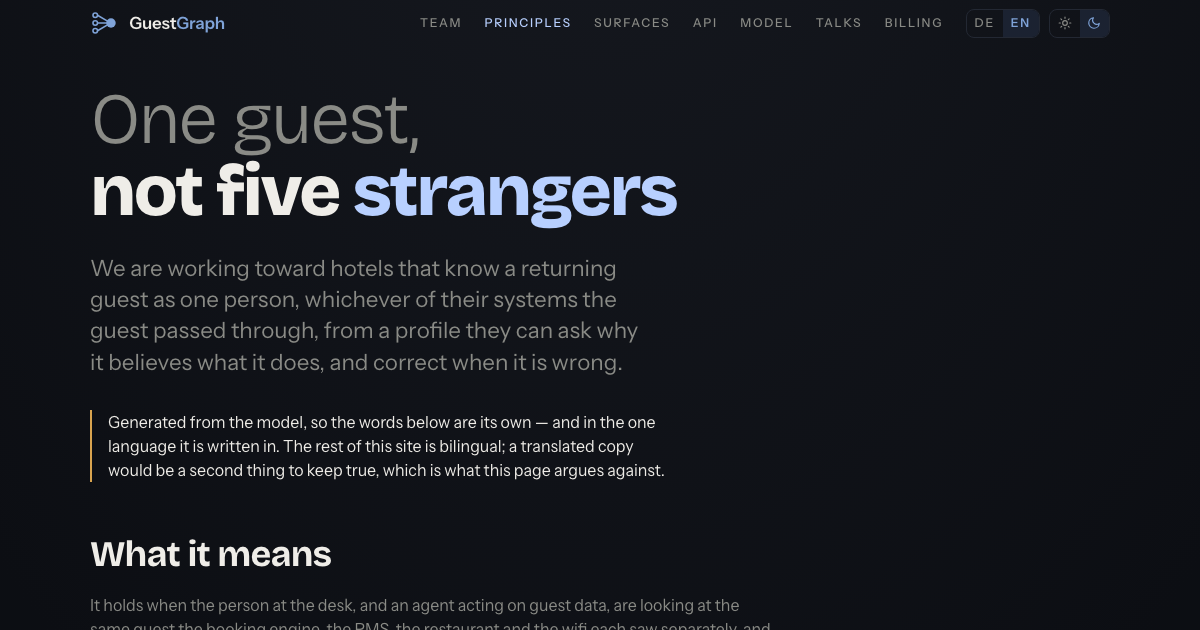
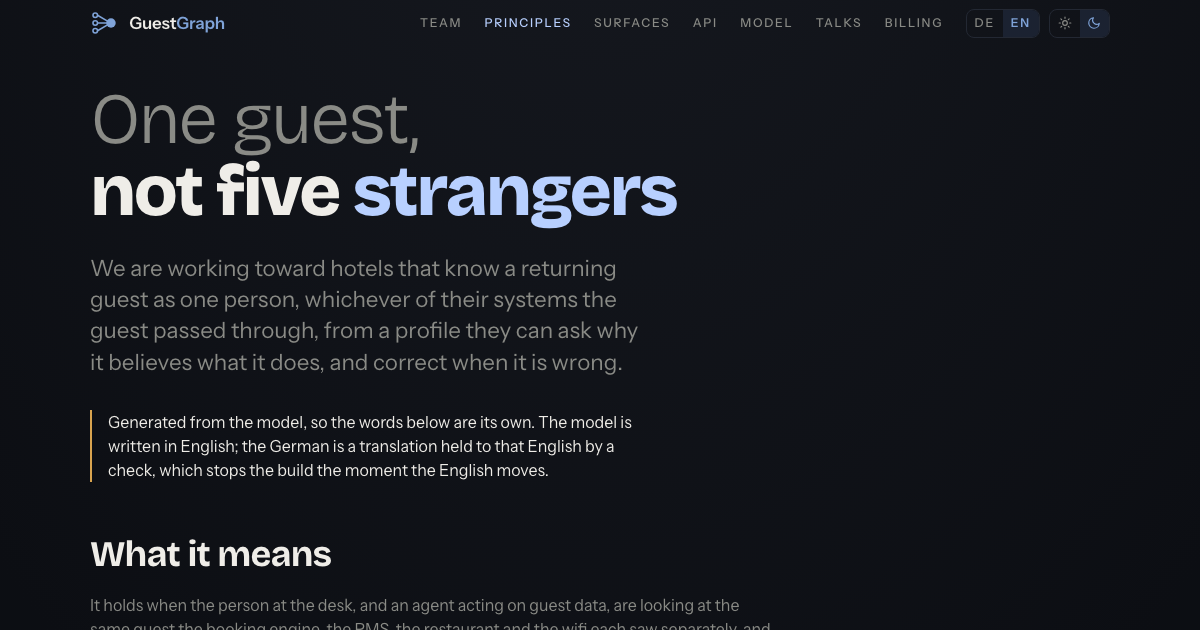
The principles page reads in German, held to the model's English
Every other page on this site keeps the model's words in the one language the model is
written in, but the model's own vision and values are the site's most public claims, and a
reader in Zürich or Bern was reading them only in English. build/pages.mjs now loads
build/principles.de.json and passes it to writePrinciples, so /principles/ shows the German
translation the owner already reviewed, held to the exact English by a check that refuses the
build the moment the two disagree.

AGENTS.md's note on one-language pages moves /principles/ out of that list across all three
sites: it is the one page generated from a pinned model that carries a translation, because a
value's German name is what a visitor reads once the language switch is pressed, and the note
on the page now says so.

Verified: the /principles/ translates spec was changed first and BASE=http://localhost:8014
npm run verify failed with German page is missing "übersetzt aus dem Englischen"; npm run
pages then regenerated /principles/ and the same run passed on all 11 pages. npm run
pages:check, model:check, api:check, design:check, og:check, test:og, sitemap,
conventions-check, conventions-sync check and npx design german stale origin/main HEAD all
pass.

Changed region(s): [[0.0925, 0.6635, 0.555, 0.754]]

diff --git a/principles/index.html b/principles/index.html
@@ -224,60 +224,60 @@
   <div class="shell">
     <!-- principles:start -->
     <div class="title">
-      <h1><span class="r70">One guest,</span><span class="rcl">not five <em>strangers</em></span></h1>
-      <p class="tagline">We are working toward hotels that know a returning guest as one person, whichever of their systems the guest passed through, from a profile they can ask why it believes what it does, and correct when it is wrong.</p>
-      <p class="note" data-de="Aus dem Modell erzeugt: Die Worte unten sind seine eigenen – und in der einen Sprache, in der es geschrieben ist. Der Rest dieser Website ist zweisprachig; eine übersetzte Kopie wäre eine zweite Fassung, die ebenfalls stimmen müsste – und genau dagegen argumentiert diese Seite.">Generated from the model, so the words below are its own — and in the one language it is written in. The rest of this site is bilingual; a translated copy would be a second thing to keep true, which is what this page argues against.</p>
+      <h1 data-de="<span class='r70'>Ein Gast,</span><span class='rcl'>nicht fünf <em>Fremde</em></span>"><span class="r70">One guest,</span><span class="rcl">not five <em>strangers</em></span></h1>
+      <p class="tagline" data-de="Wir arbeiten darauf hin, dass Hotels einen wiederkehrenden Gast als eine Person kennen, gleich in welchem ihrer Systeme er erfasst wurde – mit einem Profil, das auf Nachfrage sagt, warum es annimmt, was es annimmt, und das sich korrigieren lässt, wenn es falsch liegt.">We are working toward hotels that know a returning guest as one person, whichever of their systems the guest passed through, from a profile they can ask why it believes what it does, and correct when it is wrong.</p>
+      <p class="note" data-de="Aus dem Modell erzeugt: Die Worte unten sind seine eigenen, übersetzt aus dem Englischen, in dem es geschrieben ist. Eine Prüfung bindet die Übersetzung an den englischen Text: Ändert sich das Englische, stoppt die Prüfung den Build.">Generated from the model, so the words below are its own. The model is written in English; the German is a translation held to that English by a check, which stops the build the moment the English moves.</p>
     </div>
 
     <section>
-      <h2>What it means</h2>
-      <p class="lede">It holds when the person at the desk, and an agent acting on guest data, are looking at the same guest the booking engine, the PMS, the restaurant and the wifi each saw separately, and when either of them can ask why two records are one person and get the whole chain of decisions back. It holds only while a wrong merge is rarer than a missed one, because a wrong merge shows one guest another's stays and invoices, and that is a data protection incident rather than a flaw.</p>
-      <p class="lede">It does not ask a hotel to replace the systems it runs or to clean their data first: the records stay as each system sent them, and the profile is derived from them. It is also not a marketing profile built by guessing. A match nobody can justify is left unmade and handed to a person, and a hotel that ends up with fewer merged guests and none of them wrong is closer to it than one with more.</p>
+      <h2 data-de="Was das bedeutet">What it means</h2>
+      <p class="lede" data-de="Erreicht ist das, wenn die Person an der Rezeption und ein KI-Agent, der auf Grundlage von Gastdaten handelt, denselben Gast vor sich haben – den Gast, den Buchungsmaschine, PMS, Restaurant und WLAN je für sich gesehen haben. Und wenn beide fragen können, warum zwei Datensätze eine Person sind, und als Antwort die ganze Kette der Entscheide erhalten. Erreicht bleibt es nur, solange eine falsche Zusammenführung seltener ist als eine verpasste. Denn eine falsche Zusammenführung zeigt einem Gast die Aufenthalte und Rechnungen eines anderen, und das ist ein Datenschutzvorfall, kein Schönheitsfehler.">It holds when the person at the desk, and an agent acting on guest data, are looking at the same guest the booking engine, the PMS, the restaurant and the wifi each saw separately, and when either of them can ask why two records are one person and get the whole chain of decisions back. It holds only while a wrong merge is rarer than a missed one, because a wrong merge shows one guest another's stays and invoices, and that is a data protection incident rather than a flaw.</p>
+      <p class="lede" data-de="Das verlangt von keinem Hotel, seine Systeme zu ersetzen oder deren Daten zuerst zu bereinigen: Die Datensätze bleiben, wie jedes System sie gesendet hat, und das Profil wird aus ihnen abgeleitet. Gemeint ist auch kein Marketingprofil, das auf Vermutungen beruht. Ein Treffer, den niemand begründen kann, wird nicht zusammengeführt, sondern einem Menschen vorgelegt. Ein Hotel, das am Ende weniger zusammengeführte Gäste hat und keinen davon falsch, ist dem Ziel näher als eines mit mehr.">It does not ask a hotel to replace the systems it runs or to clean their data first: the records stay as each system sent them, and the profile is derived from them. It is also not a marketing profile built by guessing. A match nobody can justify is left unmade and handed to a person, and a hotel that ends up with fewer merged guests and none of them wrong is closer to it than one with more.</p>
     </section>
 
     <section>
       <h2 data-de="Werte">Values</h2>
       <article class="value" id="a-match-is-not-trusted-until-it-is-justified">
-        <h3>A match is not trusted until it is justified</h3>
-        <p class="tagline">Finding a match is the easy part; knowing when not to trust one is the work, and a match that cannot justify itself is escalated rather than made.</p>
-        <p>Each layer of matching decides only what it is entitled to and hands the rest upward: a shared strong identifier merges outright, a probabilistic score merges only above a threshold the tenant chose, and everything else queues for a person, whose decision sticks. Automatic probabilistic merging ships switched off, so out of the box a score suggests and a person decides, and lowering the threshold is an explicit, reversible act of trust. An agent gets no exemption a score would not get: it passes through the same thresholds, the same review queue and the same undo.</p>
-        <p>We never switch on a merge that no person asked to trust.</p>
+        <h3 data-de="Einem Treffer wird erst vertraut, wenn er begründet ist">A match is not trusted until it is justified</h3>
+        <p class="tagline" data-de="Einen Treffer zu finden, ist einfach. Schwierig ist zu wissen, wann man ihm nicht trauen darf – und ein Treffer, der sich nicht begründen lässt, wird einem Menschen vorgelegt, statt vollzogen zu werden.">Finding a match is the easy part; knowing when not to trust one is the work, and a match that cannot justify itself is escalated rather than made.</p>
+        <p data-de="Jede Stufe des Abgleichs entscheidet nur, was ihr zusteht, und reicht den Rest nach oben weiter: Ein gemeinsamer starker Identifikator führt direkt zusammen, ein Wahrscheinlichkeits-Score nur oberhalb eines Schwellenwerts, den der Mandant gewählt hat, und alles Übrige wartet auf einen Menschen, dessen Entscheid Bestand hat. Die automatische Zusammenführung nach Wahrscheinlichkeit wird ausgeschaltet ausgeliefert. Ab Werk schlägt also ein Score vor, und ein Mensch entscheidet; den Schwellenwert zu senken, ist ein ausdrücklicher und umkehrbarer Vertrauensbeweis. Ein KI-Agent bekommt keine Ausnahme, die ein Score nicht auch bekäme: Er durchläuft dieselben Schwellenwerte und dieselbe Prüfwarteschlange, und was er zusammenführt, lässt sich genauso zurücknehmen.">Each layer of matching decides only what it is entitled to and hands the rest upward: a shared strong identifier merges outright, a probabilistic score merges only above a threshold the tenant chose, and everything else queues for a person, whose decision sticks. Automatic probabilistic merging ships switched off, so out of the box a score suggests and a person decides, and lowering the threshold is an explicit, reversible act of trust. An agent gets no exemption a score would not get: it passes through the same thresholds, the same review queue and the same undo.</p>
+        <p data-de="Wir schalten nie eine Zusammenführung ein, ohne dass ein Mensch ihr ausdrücklich vertraut.">We never switch on a merge that no person asked to trust.</p>
       </article>
       <article class="value" id="every-merge-can-be-explained-and-undone">
-        <h3>Every merge can be explained and undone</h3>
-        <p class="tagline">Whichever layer decided that two records are one person, the decision can be asked why and can be taken back, and the taking back holds.</p>
-        <p>Every merge records what it joined, the matcher that decided it, how confident it was, on what evidence, when and whether the system, a person or a named agent made it, and asking why two records are one guest returns that whole chain. An unmerge splits them again and writes a do-not-merge rule, so new evidence cannot quietly put them back together. This was built before any uncertain decision was possible, because a probabilistic merge is only safe to allow once it can be explained and reversed.</p>
-        <p>We never ship a way of merging guests whose decisions cannot be read back and undone.</p>
+        <h3 data-de="Jede Zusammenführung lässt sich erklären und zurücknehmen">Every merge can be explained and undone</h3>
+        <p class="tagline" data-de="Gleich welche Stufe entschieden hat, dass zwei Datensätze eine Person sind: Der Entscheid lässt sich nach seinem Grund fragen und zurücknehmen, und die Rücknahme hat Bestand.">Whichever layer decided that two records are one person, the decision can be asked why and can be taken back, and the taking back holds.</p>
+        <p data-de="Jede Zusammenführung hält fest, was sie verbunden hat, welcher Matcher darüber entschieden hat, wie sicher er war, auf welche Hinweise er sich stützte, wann das war und ob das System, ein Mensch oder ein namentlich genannter KI-Agent sie vorgenommen hat. Wer fragt, warum zwei Datensätze ein Gast sind, bekommt diese ganze Kette zurück. Eine Trennung teilt die Datensätze wieder auf und schreibt eine Regel, dass sie nicht zusammengeführt werden dürfen, sodass neue Hinweise sie nicht stillschweigend wieder zusammenfügen können. Gebaut wurde das, bevor überhaupt ein Entscheid ohne Gewissheit möglich war, denn eine Zusammenführung nach Wahrscheinlichkeit lässt sich erst gefahrlos zulassen, wenn sie sich erklären und rückgängig machen lässt.">Every merge records what it joined, the matcher that decided it, how confident it was, on what evidence, when and whether the system, a person or a named agent made it, and asking why two records are one guest returns that whole chain. An unmerge splits them again and writes a do-not-merge rule, so new evidence cannot quietly put them back together. This was built before any uncertain decision was possible, because a probabilistic merge is only safe to allow once it can be explained and reversed.</p>
+        <p data-de="Wir liefern nie ein Verfahren zur Zusammenführung von Gästen aus, dessen Entscheide sich nicht nachlesen und zurücknehmen lassen.">We never ship a way of merging guests whose decisions cannot be read back and undone.</p>
       </article>
       <article class="value" id="everything-the-engine-does-is-on-its-api">
-        <h3>Everything the engine does is on its API</h3>
-        <p class="tagline">Every capability of the engine is reachable through its versioned REST API, and every refusal carries a type a program can act on and a person can look up.</p>
-        <p>Registering a source system, submitting a record, reading a guest, asking why, undoing a merge, deciding a review and setting the matching thresholds are all operations of the API, and a connector reaches the engine through that API like any other client. Every refusal is a problem detail whose type leads to a page saying what it means and what to do next. The hosted service will run this same engine, so the API is the product's contract from the first day.</p>
-        <p>We never build an engine capability that can only be reached through a job, an internal call or the database.</p>
+        <h3 data-de="Alles, was die Engine tut, läuft über ihre API">Everything the engine does is on its API</h3>
+        <p class="tagline" data-de="Jede Fähigkeit der Engine ist über ihre versionierte REST-API erreichbar, und jede Ablehnung nennt ihren Typ, nach dem ein Programm handeln und den ein Mensch nachschlagen kann.">Every capability of the engine is reachable through its versioned REST API, and every refusal carries a type a program can act on and a person can look up.</p>
+        <p data-de="Ein Quellsystem registrieren, einen Datensatz übermitteln, einen Gast lesen, nach dem Grund fragen, eine Zusammenführung zurücknehmen, über einen vorgelegten Treffer entscheiden und die Schwellenwerte für den Abgleich setzen: All das sind Operationen der API, und ein Connector erreicht die Engine über diese API wie jeder andere Client. Jede Ablehnung ist ein Problem Detail, dessen Typ auf eine Seite führt, die sagt, was er bedeutet und was als Nächstes zu tun ist. Der gehostete Dienst wird dieselbe Engine betreiben; die API ist also vom ersten Tag an verbindlich.">Registering a source system, submitting a record, reading a guest, asking why, undoing a merge, deciding a review and setting the matching thresholds are all operations of the API, and a connector reaches the engine through that API like any other client. Every refusal is a problem detail whose type leads to a page saying what it means and what to do next. The hosted service will run this same engine, so the API is the product's contract from the first day.</p>
+        <p data-de="Wir bauen nie eine Fähigkeit der Engine, die sich nur über einen Job, einen internen Aufruf oder die Datenbank erreichen lässt.">We never build an engine capability that can only be reached through a job, an internal call or the database.</p>
       </article>
       <article class="value" id="never-drop-what-can-be-parsed">
-        <h3>Never drop what can be parsed</h3>
-        <p class="tagline">Data loss is the cardinal sin: a record that can be read at all is kept, however wrong it looks.</p>
-        <p>Hospitality systems are dirty by nature, so a malformed record that can still be parsed is stored and flagged for review rather than rejected, and only a request that cannot be parsed at all is refused, with a problem detail saying exactly what was wrong. A connector keeps a delivery it could not fetch or submit, with its reason and its next attempt, and retries it rather than dropping it. A flagged record can be repaired and resolved again; a discarded one is a guest interaction lost for good.</p>
-        <p>We never discard a parseable record because it does not look the way we expected.</p>
+        <h3 data-de="Nie verwerfen, was sich parsen lässt">Never drop what can be parsed</h3>
+        <p class="tagline" data-de="Datenverlust ist die Todsünde: Ein Datensatz, der sich überhaupt lesen lässt, wird behalten, wie falsch er auch aussieht.">Data loss is the cardinal sin: a record that can be read at all is kept, however wrong it looks.</p>
+        <p data-de="Die Systeme der Hotellerie sind von Natur aus unsauber. Ein fehlerhafter Datensatz, der sich noch parsen lässt, wird deshalb gespeichert und zur Prüfung markiert statt abgelehnt. Abgelehnt wird nur eine Anfrage, die sich gar nicht parsen lässt, und zwar mit einem Problem Detail, das genau sagt, was falsch war. Eine Lieferung, die ein Connector nicht abrufen oder übermitteln konnte, behält er samt Grund und Zeitpunkt des nächsten Versuchs und versucht es erneut, statt sie zu verwerfen. Ein markierter Datensatz lässt sich reparieren und erneut auflösen; ein verworfener ist eine Interaktion mit einem Gast, die für immer verloren ist.">Hospitality systems are dirty by nature, so a malformed record that can still be parsed is stored and flagged for review rather than rejected, and only a request that cannot be parsed at all is refused, with a problem detail saying exactly what was wrong. A connector keeps a delivery it could not fetch or submit, with its reason and its next attempt, and retries it rather than dropping it. A flagged record can be repaired and resolved again; a discarded one is a guest interaction lost for good.</p>
+        <p data-de="Wir verwerfen nie einen Datensatz, der sich parsen lässt, weil er anders aussieht, als wir erwartet haben.">We never discard a parseable record because it does not look the way we expected.</p>
       </article>
       <article class="value" id="store-what-happened-derive-who-it-was">
-        <h3>Store what happened, derive who it was</h3>
-        <p class="tagline">A source record is kept exactly as its system sent it, and a guest is a conclusion drawn from those records rather than a row anyone edits.</p>
-        <p>A record enters as it arrived, its raw payload beside the fields extracted from it, and application code never changes or deletes it; a correction arrives as a new record. The golden profile is computed from the records by survivorship rules and can be recomputed at any time, which is what makes an explanation, an undo and a replay of resolution possible at all. Lawful erasure under data protection law is the one exception, and it is named as one.</p>
-        <p>We never overwrite a source record to fix what a guest's profile says.</p>
+        <h3 data-de="Speichern, was geschah – ableiten, wer es war">Store what happened, derive who it was</h3>
+        <p class="tagline" data-de="Ein Quelldatensatz wird genau so aufbewahrt, wie sein System ihn gesendet hat, und ein Gast ist ein Schluss, der aus diesen Datensätzen gezogen wird, keine Zeile, die jemand ändert.">A source record is kept exactly as its system sent it, and a guest is a conclusion drawn from those records rather than a row anyone edits.</p>
+        <p data-de="Ein Datensatz wird gespeichert, wie er angekommen ist – die unveränderten Rohdaten neben den Feldern, die daraus extrahiert wurden –, und der Anwendungscode ändert oder löscht ihn nie; eine Korrektur kommt als neuer Datensatz. Das goldene Profil wird mit festen Regeln, welcher Wert gilt, aus den Datensätzen berechnet und lässt sich jederzeit neu berechnen. Erst das macht eine Erklärung, eine Rücknahme und ein erneutes Durchspielen der Auflösung überhaupt möglich. Die rechtmässige Löschung nach Datenschutzrecht ist die einzige Ausnahme, und sie wird als solche benannt.">A record enters as it arrived, its raw payload beside the fields extracted from it, and application code never changes or deletes it; a correction arrives as a new record. The golden profile is computed from the records by survivorship rules and can be recomputed at any time, which is what makes an explanation, an undo and a replay of resolution possible at all. Lawful erasure under data protection law is the one exception, and it is named as one.</p>
+        <p data-de="Wir überschreiben nie einen Quelldatensatz, um zu korrigieren, was im Profil eines Gastes steht.">We never overwrite a source record to fix what a guest's profile says.</p>
       </article>
       <article class="value" id="tenants-never-meet">
-        <h3>Tenants never meet</h3>
-        <p class="tagline">One instance serves many brands, properties or customers, and nothing in one tenant is readable from another, from the first line of code on.</p>
-        <p>Every stored row, query, uniqueness rule, lock and API operation carries its tenant, and resolution, lookup and merging happen within one tenant only. An id that belongs to another tenant is answered exactly as one that never existed, so a refusal cannot say whether an id is in use elsewhere, and the core has no administrative path that reads across tenants. Tenancy was there on the first day because it is cheap then and brutal to retrofit, and a leak between tenants in an identity graph is a privacy incident.</p>
-        <p>We never add a path, for an operator or for ourselves, that reads one tenant's guests from another's.</p>
+        <h3 data-de="Mandanten begegnen sich nie">Tenants never meet</h3>
+        <p class="tagline" data-de="Eine Instanz bedient viele Marken, Häuser oder Kunden, und nichts in einem Mandanten ist aus einem anderen lesbar – von der ersten Codezeile an.">One instance serves many brands, properties or customers, and nothing in one tenant is readable from another, from the first line of code on.</p>
+        <p data-de="Jede gespeicherte Zeile, jede Abfrage, jede Eindeutigkeitsregel, jede Datenbanksperre und jede Operation der API ist an ihren Mandanten gebunden, und Auflösung, Suche und Zusammenführung geschehen nur innerhalb eines einzigen Mandanten. Eine ID, die zu einem anderen Mandanten gehört, bekommt genau dieselbe Antwort wie eine, die es nie gab. So kann eine Ablehnung nicht verraten, ob eine ID anderswo in Gebrauch ist. Und der Kern hat keinen administrativen Zugang, der über Mandanten hinweg liest. Die Mandantenfähigkeit war vom ersten Tag an da, weil sie dann wenig kostet und das Nachrüsten enorm aufwendig ist – und ein Leck zwischen Mandanten ist in einem Identitätsgraphen ein Datenschutzvorfall.">Every stored row, query, uniqueness rule, lock and API operation carries its tenant, and resolution, lookup and merging happen within one tenant only. An id that belongs to another tenant is answered exactly as one that never existed, so a refusal cannot say whether an id is in use elsewhere, and the core has no administrative path that reads across tenants. Tenancy was there on the first day because it is cheap then and brutal to retrofit, and a leak between tenants in an identity graph is a privacy incident.</p>
+        <p data-de="Wir bauen nie einen Weg ein – weder für einen Betreiber noch für uns selbst –, über den sich die Gäste eines Mandanten aus einem anderen lesen lassen.">We never add a path, for an operator or for ourselves, that reads one tenant's guests from another's.</p>
       </article>
       <article class="value" id="the-core-stays-open">
-        <h3>The core stays open</h3>
-        <p class="tagline">The engine, the graph, the API and the connectors are Apache 2.0 and stay that way, because a hotel has to be able to check how an identity graph decided before it can trust one.</p>
-        <p>Anyone can run the core themselves and read exactly how it decided to merge two of their guests. What is planned as commercial, managed hosting, a console and MCP access for agents, goes on top of the core and never inside it: the core does not depend on commercial code, and self-hosting stays free. A black box that merges guests is not something we would deploy ourselves, so it is not something we ask a hotel to.</p>
-        <p>We never hold back or degrade a capability of the core to sell the hosted service.</p>
+        <h3 data-de="Der Kern bleibt offen">The core stays open</h3>
+        <p class="tagline" data-de="Die Engine, der Graph, die API und die Connectors stehen unter der Lizenz Apache 2.0, und das bleibt so, denn ein Hotel muss nachprüfen können, wie ein Identitätsgraph entschieden hat, bevor es ihm vertrauen kann.">The engine, the graph, the API and the connectors are Apache 2.0 and stay that way, because a hotel has to be able to check how an identity graph decided before it can trust one.</p>
+        <p data-de="Wer will, kann den Kern selbst betreiben und genau nachlesen, wie er entschieden hat, zwei der eigenen Gäste zusammenzuführen. Was als kommerzielles Angebot geplant ist – verwaltetes Hosting, eine Konsole und MCP-Zugang für KI-Agenten –, baut auf dem Kern auf und fliesst nie in ihn ein: Der Kern hängt nicht von kommerziellem Code ab, und wer selbst hostet, zahlt weiterhin nichts. Eine Blackbox, die Gäste zusammenführt, würden wir selbst nicht einsetzen, also verlangen wir das auch von keinem Hotel.">Anyone can run the core themselves and read exactly how it decided to merge two of their guests. What is planned as commercial, managed hosting, a console and MCP access for agents, goes on top of the core and never inside it: the core does not depend on commercial code, and self-hosting stays free. A black box that merges guests is not something we would deploy ourselves, so it is not something we ask a hotel to.</p>
+        <p data-de="Wir halten nie eine Fähigkeit des Kerns zurück oder verschlechtern sie, um den gehosteten Dienst zu verkaufen.">We never hold back or degrade a capability of the core to sell the hosted service.</p>
       </article>
     </section>
 

diff --git a/AGENTS.md b/AGENTS.md
@@ -363,7 +363,9 @@ Three more places carry German, and none of their names ends in `-de`. The `UI.d
 
 `<html lang>` carries the bare language, `en` in the source and `de` after a switch, and the region rides in `og:locale` alone. The rule's name says where the spelling and the grammar come from, not what the attribute says: every check that reads the language compares against `en` and `de`, and a regional tag would tell a crawler nothing `og:locale` does not already.
 
-A page generated from a pinned model — blust.ch's `/model/` and `/principles/`, companygraph.io's `/model/` and `/example/` — shows the model's own words in the one language the model is written in, and the German page shows them unchanged under `lang="de"`. Each of those pages says so in its note; the site's own words around them are bilingual like everything else. A translated copy would be a second thing to keep true, which is the argument the principles page makes against it.
+A page generated from a pinned model — blust.ch's `/model/`, companygraph.io's `/model/` and `/example/` — shows the model's own words in the one language the model is written in, and the German page shows them unchanged under `lang="de"`. Each of those pages says so in its note; the site's own words around them are bilingual like everything else. A translated copy would be a second thing to keep true, which is the argument each of those pages makes against it.
+
+`/principles/` on all three sites is the one page generated from a pinned model that carries a translation anyway: the model still stays English, but each site's `build/principles.de.json` holds the German for the exact English string a value or the vision states, looked up rather than typed a second time, and the build refuses to run the moment the English moves and the German has not caught up. The page's own note says so — `NOTE_TRANSLATED_EN`/`NOTE_TRANSLATED_DE` in `@robertblust/design/render/note`, not the plain `NOTE_EN`/`NOTE_DE` that `/model/` still carries — and the `translates` check presses the language toggle and reads the German back.
 
 `translates` is the check that clicks. Every other DOM check reads the page as it first renders, which is English; this one presses DE, asserts the German is there and the English is gone — body text, `<title>`, meta description and, on a talks index, the PDF link — then presses EN and requires the page back exactly as it was. It is shared, in `@robertblust/design`, and every page in `PAGES` declares a spec for it, because a page without one is a page whose German half no test has seen.
 
